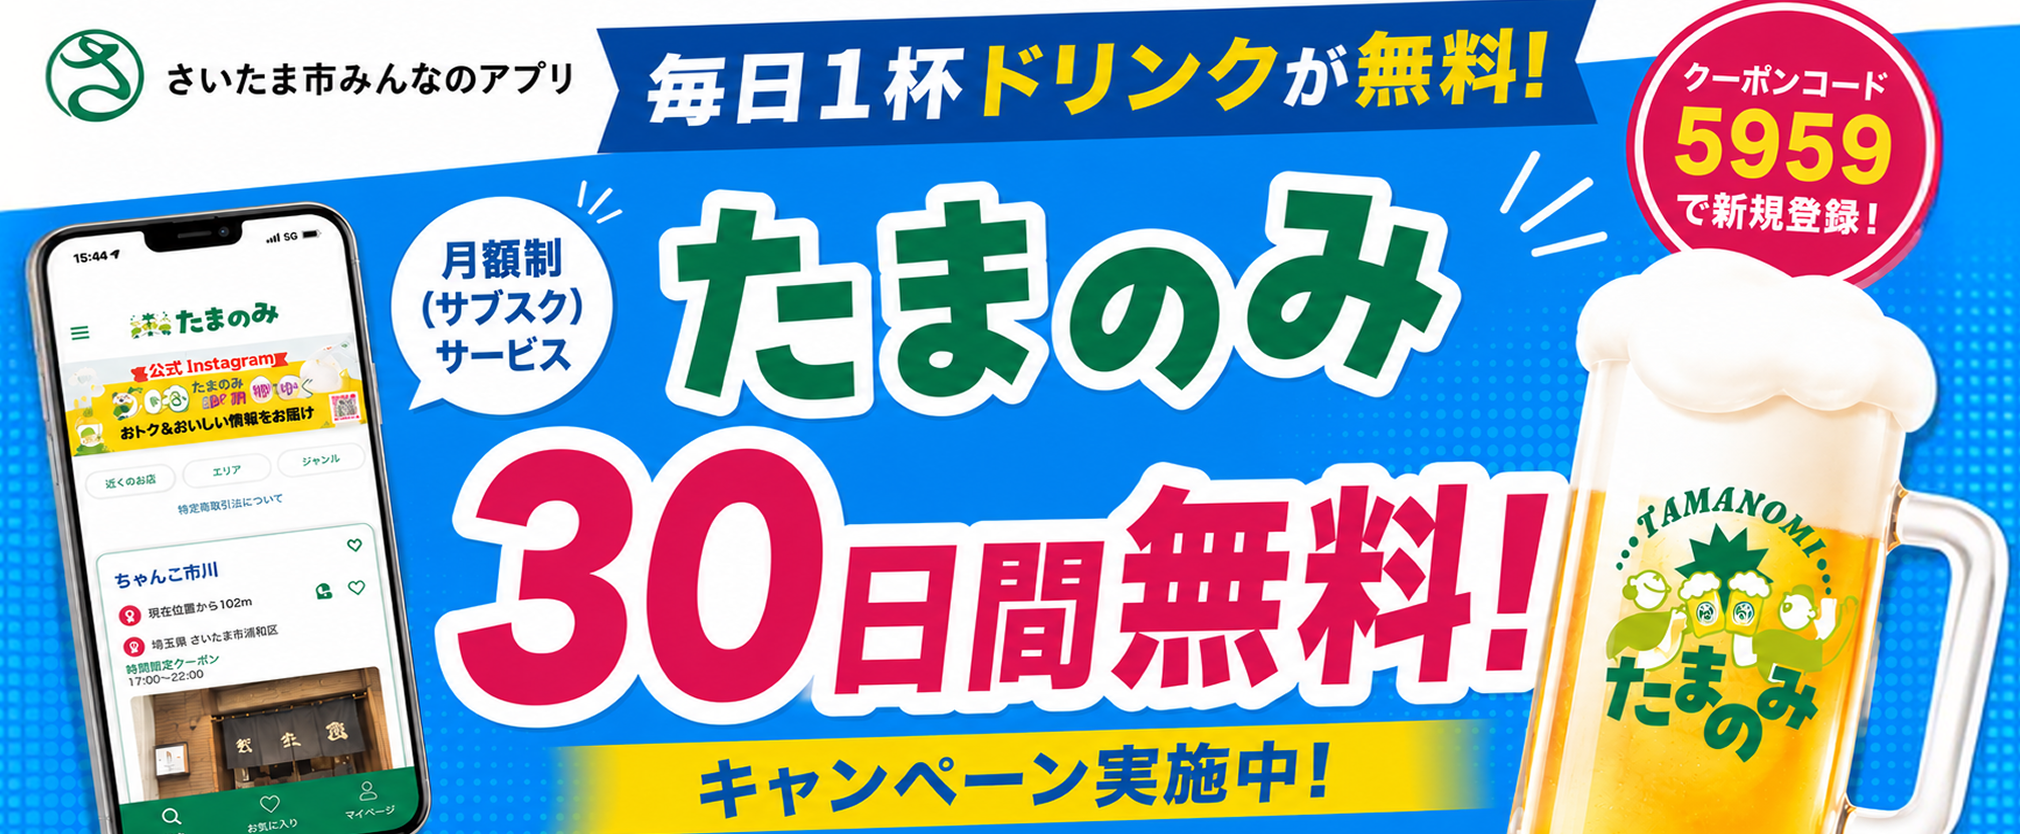
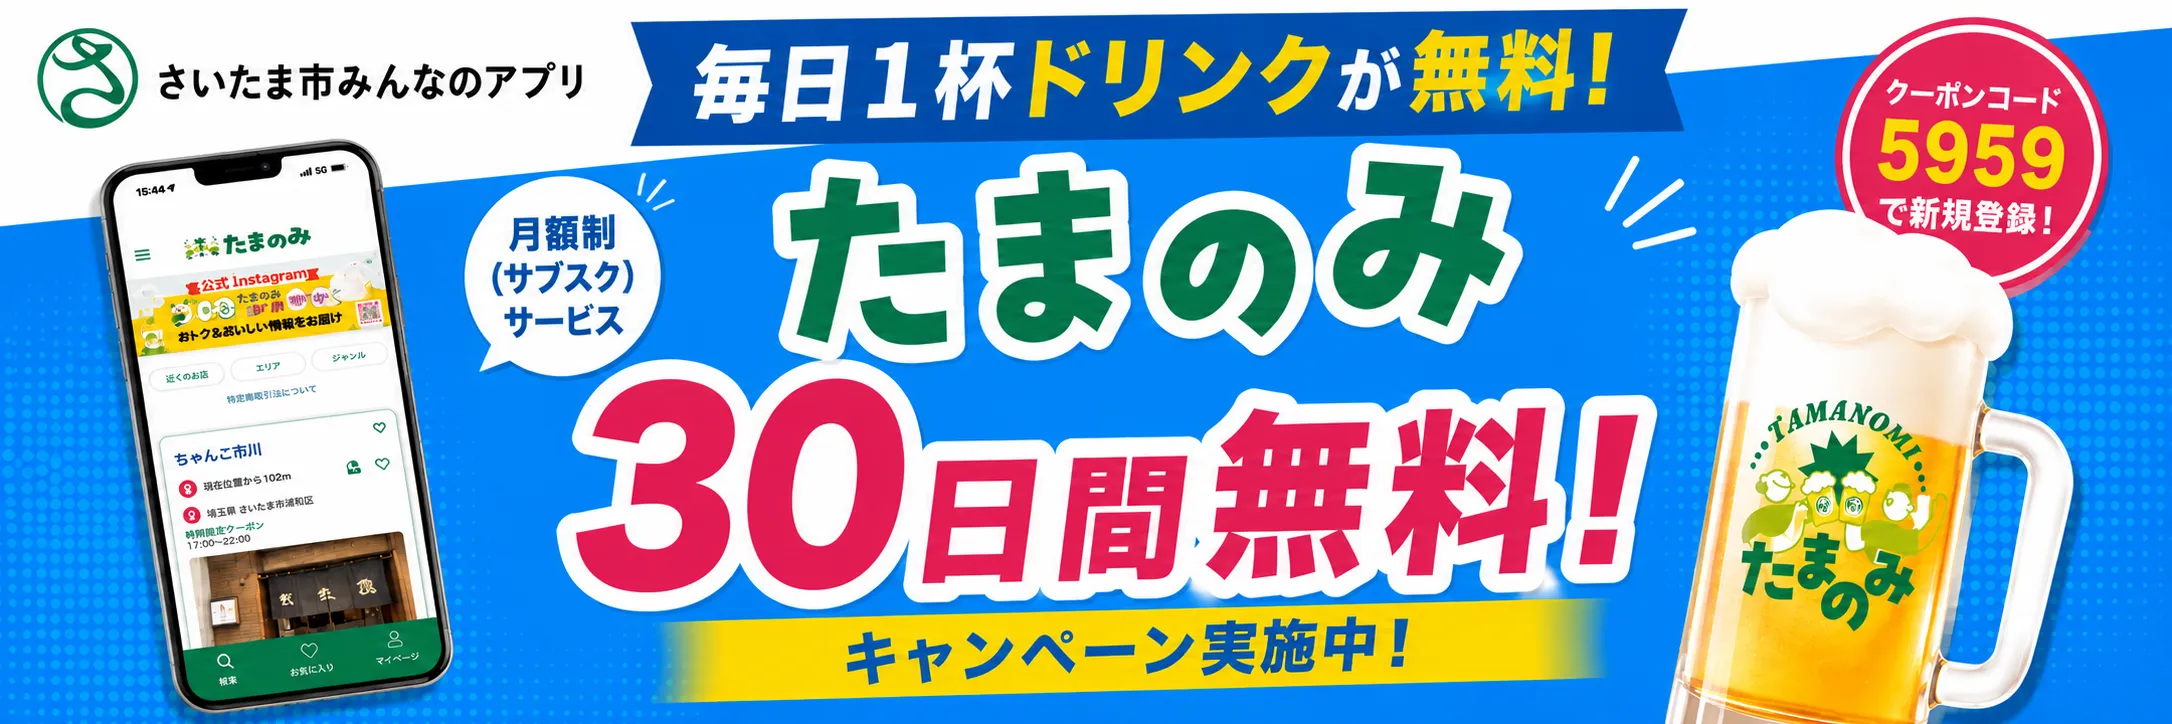
fix(web): バナー画像を3:1で再書き出し object-cover に戻す
PR #303 のレビュー指摘への対応。

- 先方に 3:1（2172x724）で作り直してもらったバナー画像に差し替え
- 枠と画像の縦横比が一致したため、BannerCarousel の画像表示を
  object-fill から object-cover に戻した
  object-fill のままだと、今後 3:1 以外のアセットが追加された際に
  クロップされず無言で歪む状態が残るため
- あわせて画像を WebP へ再書き出しし圧縮（1,641KB → XXXKB）

diff --git a/frontend/src/components/organisms/BannerCarousel.tsx b/frontend/src/components/organisms/BannerCarousel.tsx
@@ -95,7 +95,7 @@ export function BannerCarousel({ className = "" }: BannerCarouselProps) {
       {/* バナー表示エリア（横長 3:1 固定） */}
       <div className="relative w-full aspect-[3/1] overflow-hidden">
         {/* バナー画像 */}
-        <div
+        <div 
           className="absolute inset-0 cursor-pointer transition-all duration-500"
           onClick={handleBannerClick}
         >
@@ -103,7 +103,7 @@ export function BannerCarousel({ className = "" }: BannerCarouselProps) {
             src={currentBanner.imageUrl}
             alt={currentBanner.alt}
             fill
-            className="object-fill"
+            className="object-cover"
           />
         </div>
 
